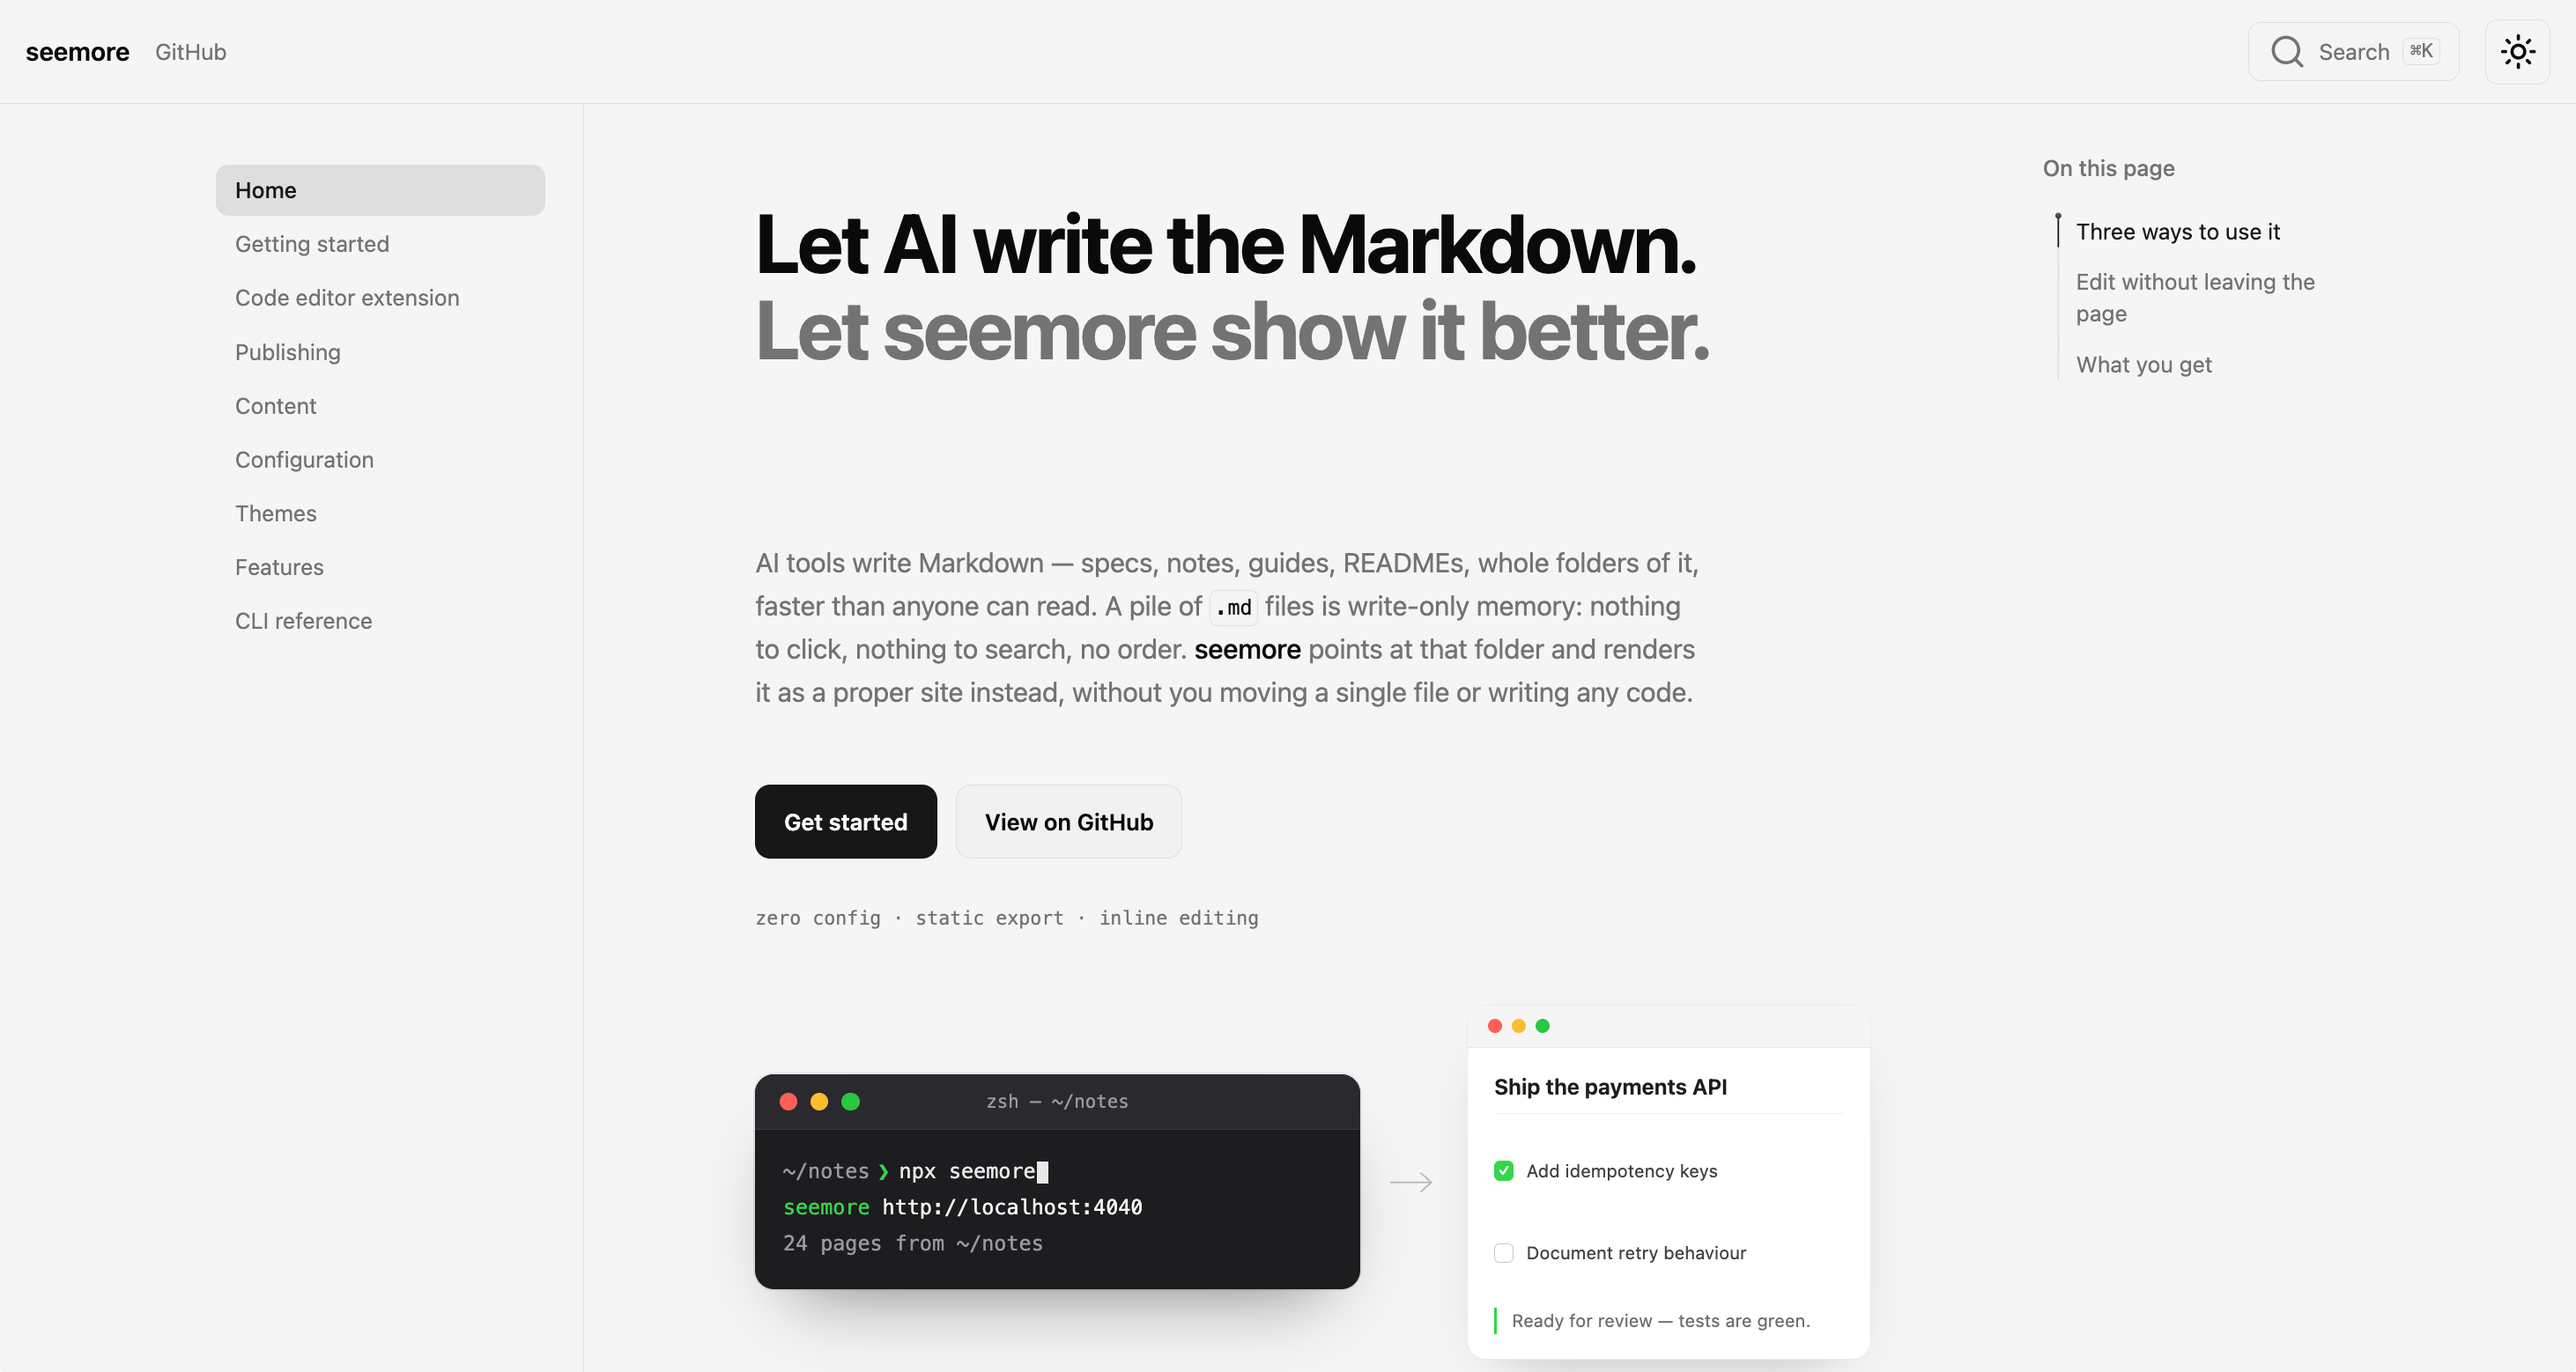
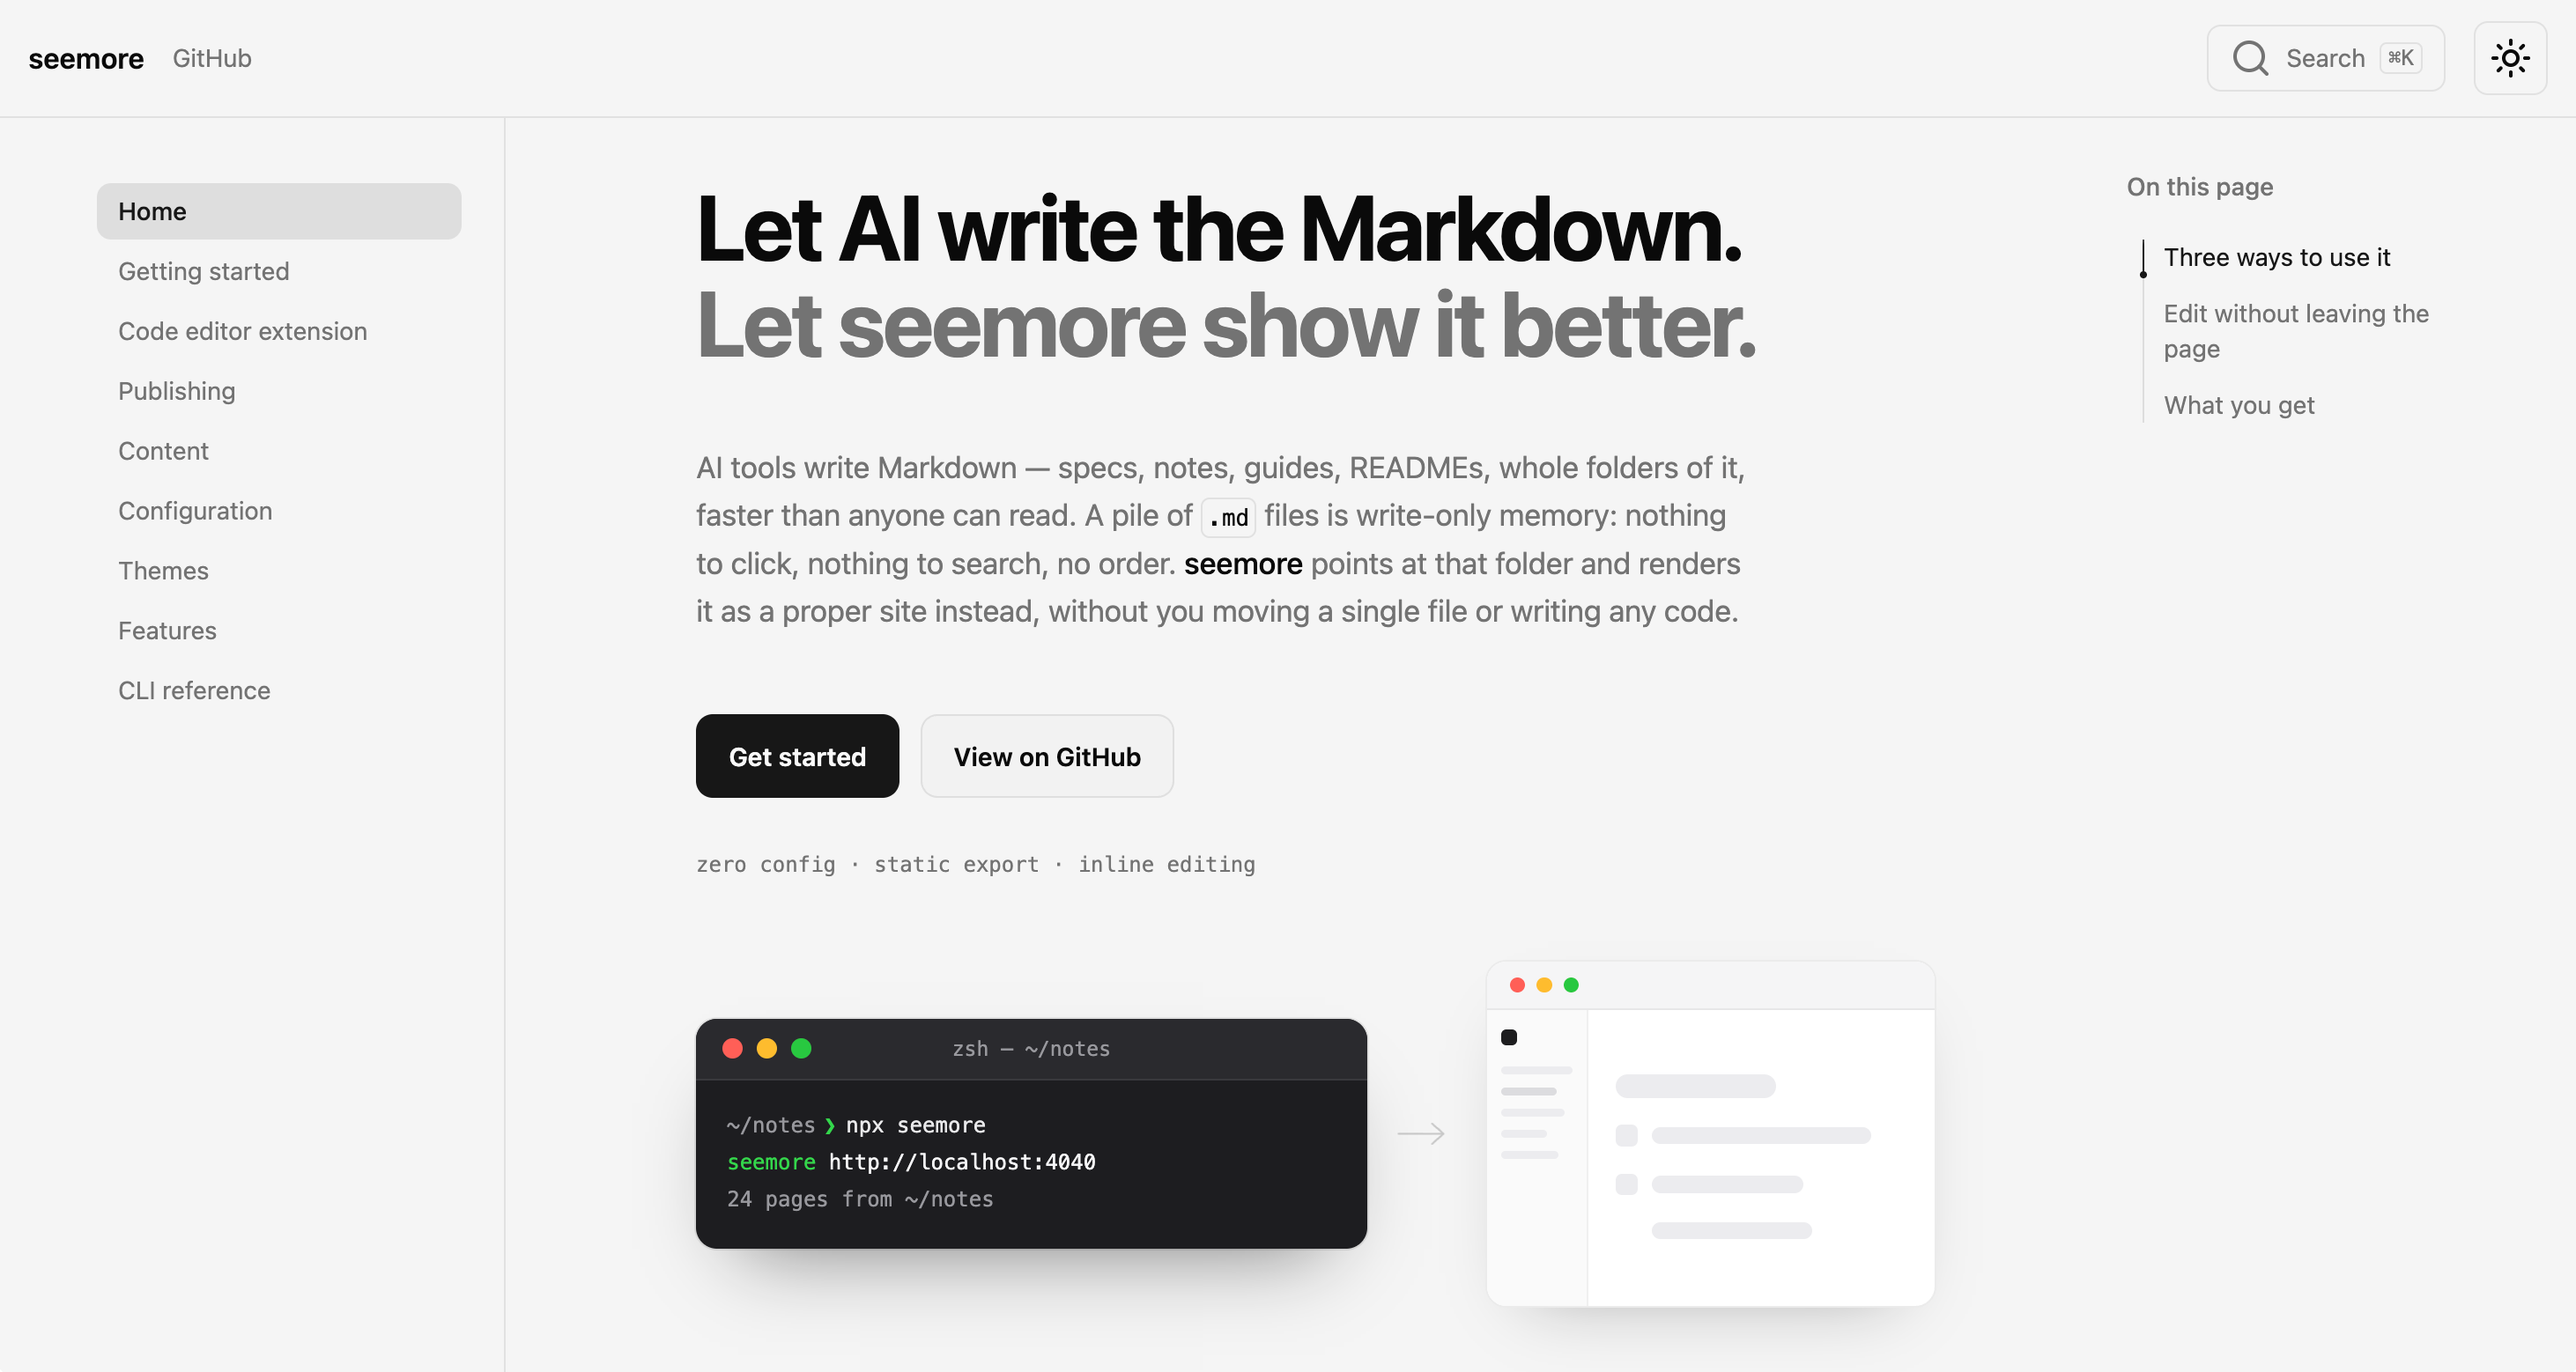
refactor: redesign hero browser preview with static sidebar and cleaned-up skeleton layout

diff --git a/packages/site/custom.css b/packages/site/custom.css
@@ -23,6 +23,12 @@
   max-width: 20ch;
 }
 
+/* the MDX renderer wraps the heading's content in a <p>, which — being a flex
+   item's child — traps its prose margins instead of collapsing them away */
+.seemore-hero-title p {
+  margin: 0;
+}
+
 .seemore-hero-title-quiet {
   color: var(--color-fd-muted-foreground);
 }
@@ -152,7 +158,7 @@
 .seemore-cli-body {
   padding: 0.95rem 1.1rem 1.1rem;
   font-family: ui-monospace, SFMono-Regular, Menlo, Consolas, monospace;
-  font-size: 0.8125rem;
+  font-size: 0.75rem;
   line-height: 1.75;
   color: #e8e8ea;
   overflow-x: auto;
@@ -250,25 +256,70 @@
 }
 
 .seemore-browser-page {
+  display: flex;
+  align-items: stretch;
+  min-height: 10.5rem;
+}
+
+/* — a miniature docs sidebar, always "loaded" — */
+
+.seemore-browser-side {
+  display: flex;
+  flex-direction: column;
+  gap: 0.45rem;
+  width: 3.6rem;
+  flex-shrink: 0;
+  padding: 0.7rem 0.5rem;
+  border-right: 1px solid #f0f0f0;
+  background: #fafafa;
+}
+
+.seemore-browser-side-brand {
+  width: 0.55rem;
+  height: 0.55rem;
+  border-radius: 0.18rem;
+  background: #1d1d1f;
+  margin-bottom: 0.3rem;
+}
+
+.seemore-browser-side-item {
+  height: 0.3rem;
+  border-radius: 999px;
+  background: #ececef;
+}
+
+.seemore-browser-side-item:nth-child(3) {
+  width: 78%;
+  background: #dcdcdf;
+}
+
+.seemore-browser-side-item:nth-child(4) {
+  width: 88%;
+}
+
+.seemore-browser-side-item:nth-child(5) {
+  width: 64%;
+}
+
+.seemore-browser-side-item:nth-child(6) {
+  width: 80%;
+}
+
+.seemore-browser-main {
+  flex: 1;
+  min-width: 0;
   display: grid;
   align-items: center;
-  min-height: 10.5rem;
-  padding: 0.9rem 1.05rem 1rem;
+  padding: 0.8rem 0.95rem 0.9rem;
 }
 
 /* — skeleton shown while the "page loads", stacked under the content — */
 
-.seemore-browser-skeleton,
-.seemore-browser-view {
-  grid-area: 1 / 1;
-}
-
 .seemore-browser-skeleton {
+  grid-area: 1 / 1;
   display: flex;
   flex-direction: column;
   gap: 0.95rem;
-  opacity: 1;
-  animation: seemore-browser-sk 7.5s ease infinite;
 }
 
 .seemore-sk-bar {
@@ -311,69 +362,6 @@
 .seemore-sk-w55 {
   width: 55%;
   margin-left: 1.28rem;
-}
-
-.seemore-browser-view {
-  opacity: 0;
-  line-height: 1.45;
-  animation: seemore-browser-in 7.5s ease infinite;
-}
-
-/* the docs typography adds margins to page elements — this preview sets its own */
-.seemore-browser-view > * {
-  margin: 0;
-}
-
-.seemore-browser-h {
-  margin-bottom: 0.6rem;
-  padding-bottom: 0.45rem;
-  border-bottom: 1px solid #f0f0f0;
-  font-size: 0.85rem;
-  font-weight: 650;
-  letter-spacing: -0.01em;
-  color: #1d1d1f;
-}
-
-.seemore-browser-li {
-  display: flex;
-  align-items: center;
-  gap: 0.5rem;
-  padding: 0.24rem 0;
-  font-size: 0.7rem;
-  color: #424245;
-}
-
-.seemore-browser-box {
-  width: 0.78rem;
-  height: 0.78rem;
-  flex-shrink: 0;
-  border: 1px solid #c7c7cc;
-  border-radius: 0.22rem;
-}
-
-.seemore-browser-box-done {
-  position: relative;
-  background: #32d74b;
-  border-color: #32d74b;
-}
-
-.seemore-browser-box-done::after {
-  content: '✓';
-  position: absolute;
-  inset: 0;
-  display: grid;
-  place-items: center;
-  font-size: 0.5rem;
-  font-weight: 700;
-  color: #ffffff;
-}
-
-.seemore-browser-quote {
-  margin-top: 0.55rem;
-  padding-left: 0.6rem;
-  border-left: 2px solid #32d74b;
-  font-size: 0.7rem;
-  color: #6e6e73;
 }
 
 /* — one 7.5s loop: type, serve, arrow, page appears, reset — */
@@ -454,43 +442,6 @@
   }
 }
 
-@keyframes seemore-browser-in {
-  0%,
-  36% {
-    opacity: 0;
-    transform: translateY(5px);
-  }
-
-  46%,
-  86% {
-    opacity: 1;
-    transform: none;
-  }
-
-  92%,
-  100% {
-    opacity: 0;
-    transform: translateY(5px);
-  }
-}
-
-@keyframes seemore-browser-sk {
-  0%,
-  32% {
-    opacity: 1;
-  }
-
-  42%,
-  86% {
-    opacity: 0;
-  }
-
-  96%,
-  100% {
-    opacity: 1;
-  }
-}
-
 @keyframes seemore-sk-pulse {
   0%,
   100% {
@@ -533,24 +484,16 @@
   .seemore-cli-caret,
   .seemore-cli-out,
   .seemore-hero-arrow,
-  .seemore-browser-view,
-  .seemore-browser-skeleton,
   .seemore-sk-bar,
   .seemore-sk-box {
     animation: none;
-  }
-
-  /* content shown statically — the skeleton underneath must go */
-  .seemore-browser-skeleton {
-    display: none;
   }
 
   .seemore-cli-typed {
     width: 11ch;
   }
 
-  .seemore-cli-out,
-  .seemore-browser-view {
+  .seemore-cli-out {
     opacity: 1;
     transform: none;
   }

diff --git a/README.md b/README.md
@@ -47,7 +47,7 @@ AI tools write Markdown — specs, notes, guides, READMEs, whole folders of it, 
 **seemore** points at that folder and renders it as a proper site instead, without you moving a single file or writing any code.
 
 <p align="center">
-  <img src="https://raw.githubusercontent.com/arifszn/seemore/main/packages/site/assets/home.png" alt="The seemore site: a terminal typing npx seemore to serve a folder of notes at localhost:4040, with an arrow pointing to the rendered page preview" width="640"/>
+  <img src="https://raw.githubusercontent.com/arifszn/seemore/main/packages/site/assets/home.png" alt="The seemore site: a terminal typing npx seemore to serve a folder of notes at localhost:4040, with an arrow pointing to the browser preview" width="640"/>
 </p>
 
 Three ways to use it:
